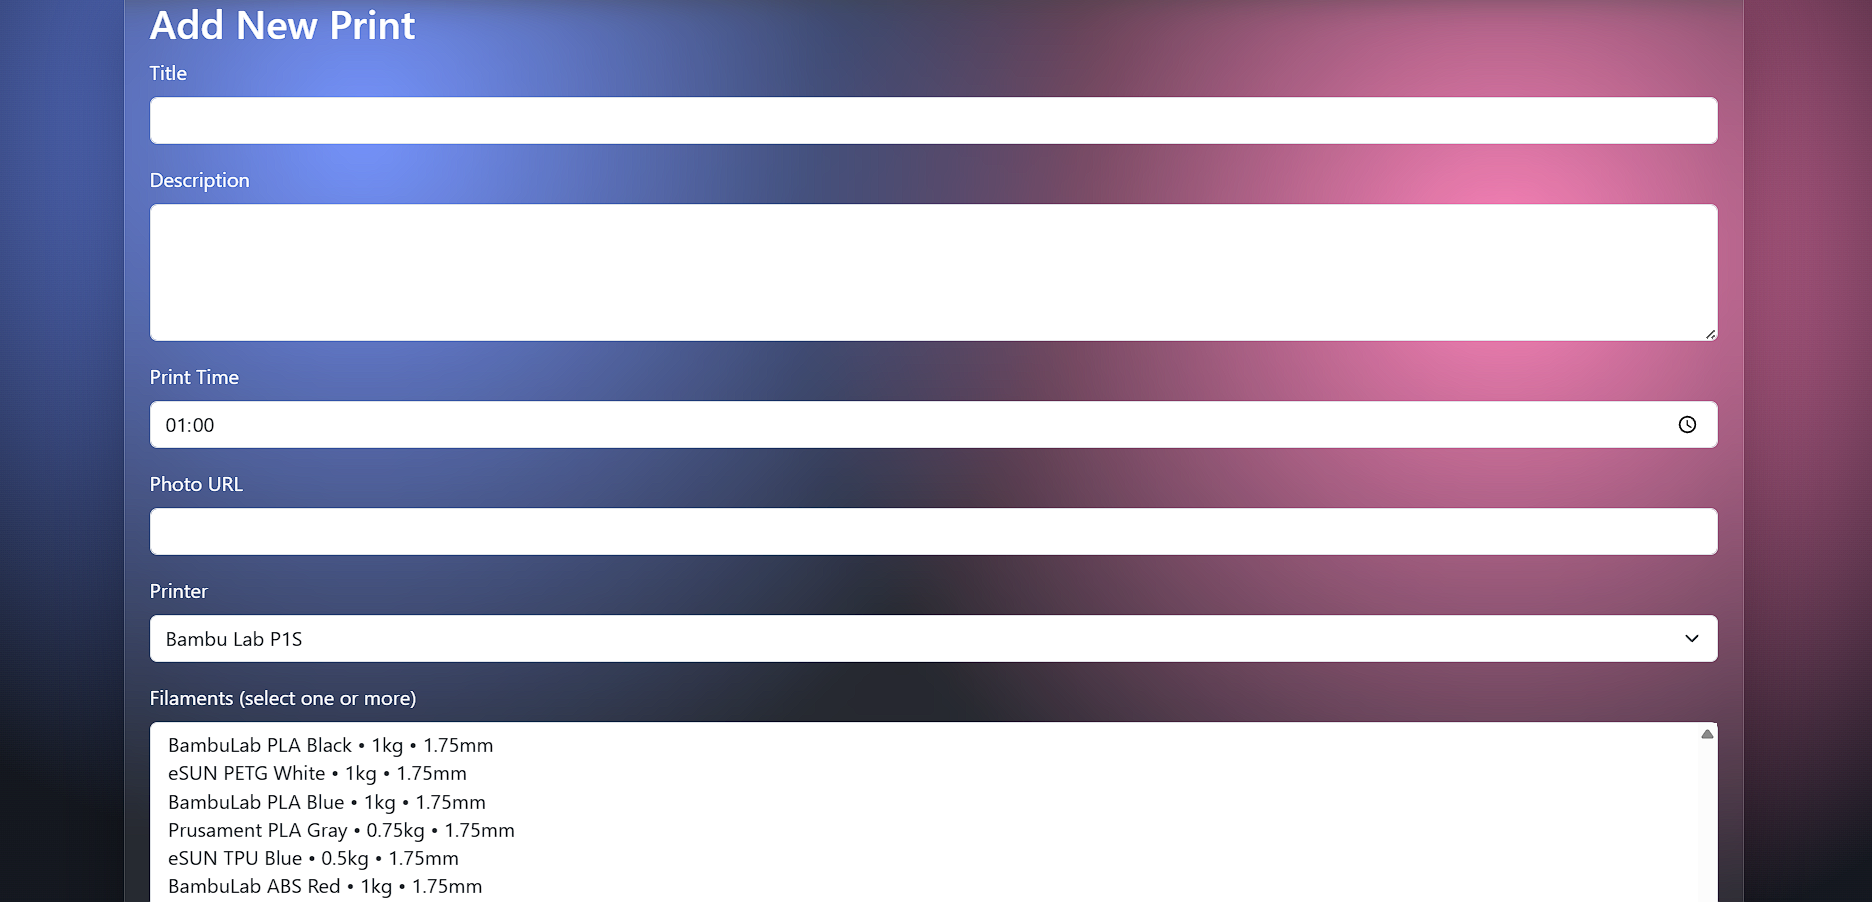
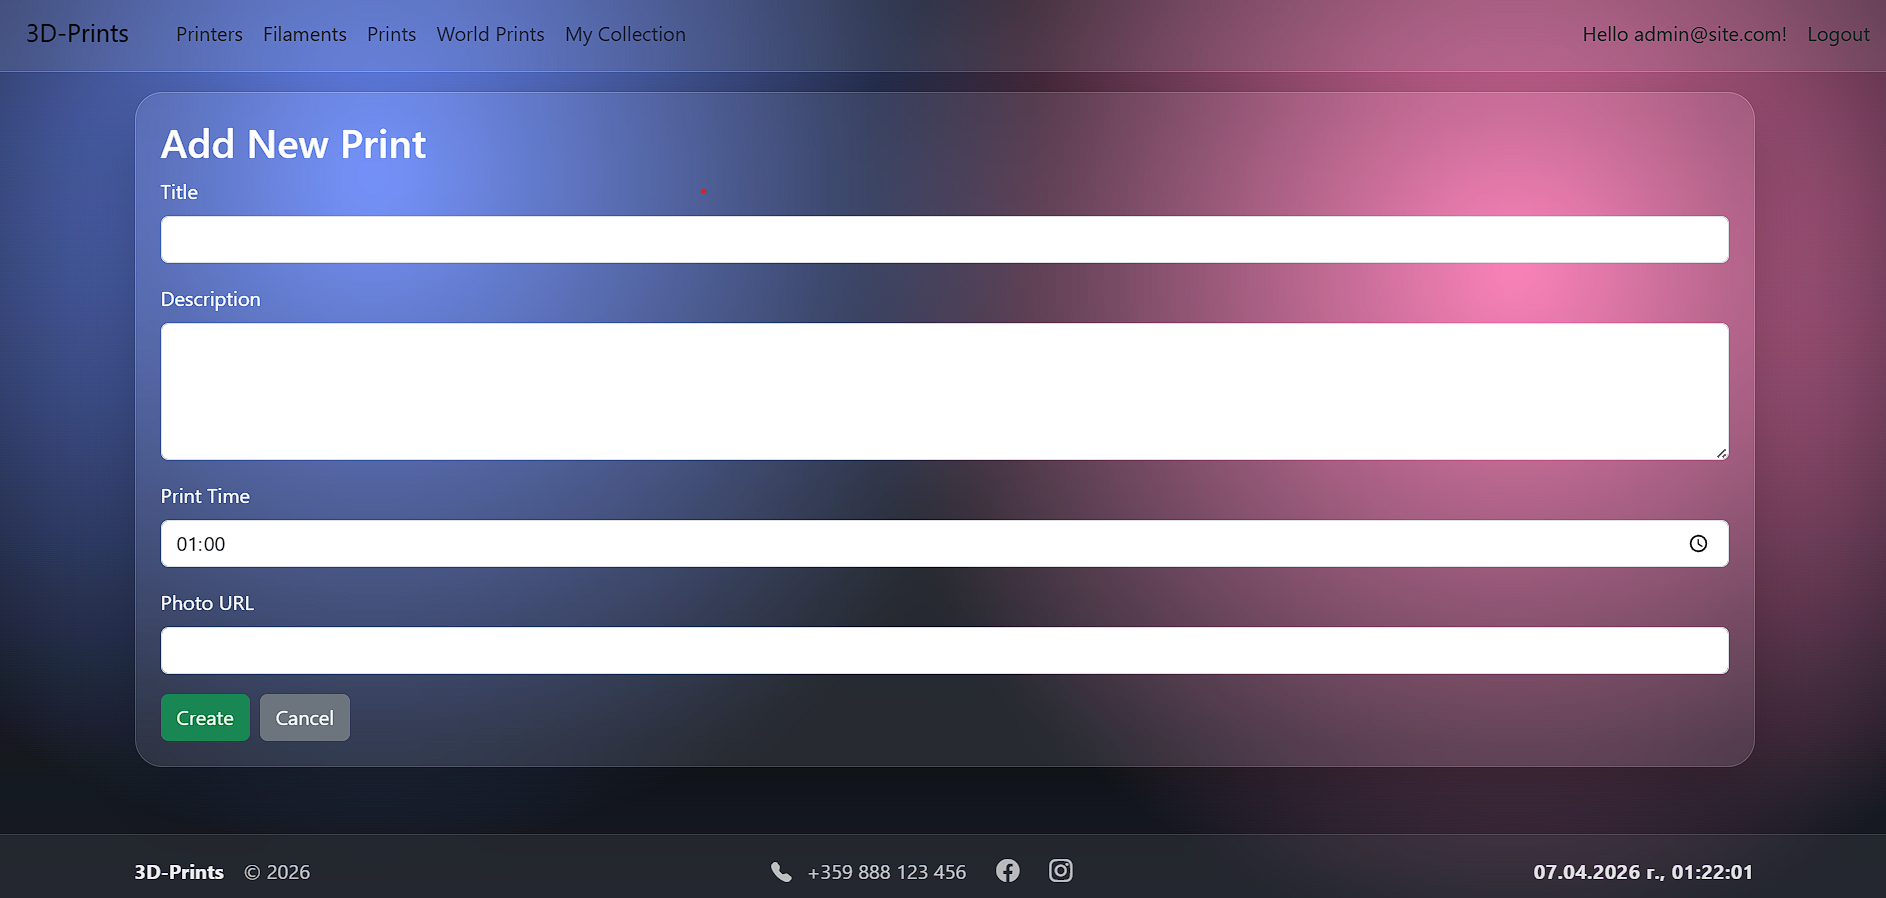
Print seed data and new read me screenshots

diff --git a/3D-Prints-APP.Data/Migrations/20260406225906_SeedPrints.cs b/3D-Prints-APP.Data/Migrations/20260406225906_SeedPrints.cs
@@ -1,0 +1,69 @@
+using System;
+using Microsoft.EntityFrameworkCore.Migrations;
+
+#nullable disable
+
+#pragma warning disable CA1814 // Prefer jagged arrays over multidimensional
+
+namespace _3DPrintsASP.NETCoreMVCAPP.Migrations
+{
+    /// <inheritdoc />
+    public partial class SeedPrints : Migration
+    {
+        /// <inheritdoc />
+        protected override void Up(MigrationBuilder migrationBuilder)
+        {
+            migrationBuilder.InsertData(
+                table: "Prints",
+                columns: new[] { "Id", "Description", "IsPublic", "PrintTime", "PrinterId", "Title", "UploadPhoto", "UploadedTime", "UserId" },
+                values: new object[,]
+                {
+                    { 1, "One of the minions", true, new TimeOnly(2, 30, 0), null, "Minion Bob", "https://m.media-amazon.com/images/I/61R3gavoPGL._AC_UF894,1000_QL80_.jpg", new DateTime(2025, 10, 10, 14, 30, 0, 0, DateTimeKind.Unspecified), "admin-user-id" },
+                    { 2, "Popeye the sailor man", true, new TimeOnly(1, 45, 0), null, "Popeye", "https://i.ebayimg.com/images/g/ItYAAOSwM4Rmv4Sm/s-l400.jpg", new DateTime(2025, 10, 12, 16, 0, 0, 0, DateTimeKind.Unspecified), "admin-user-id" }
+                });
+
+            migrationBuilder.InsertData(
+                table: "Prints",
+                columns: new[] { "Id", "Description", "PrintTime", "PrinterId", "Title", "UploadPhoto", "UploadedTime", "UserId" },
+                values: new object[,]
+                {
+                    { 3, "Holder that keeps cables organized", new TimeOnly(3, 0, 0), null, "Cable Holder", "https://www.3dforprint.com/modelos/10243/cable-holder1.webp", new DateTime(2025, 10, 15, 11, 20, 0, 0, DateTimeKind.Unspecified), "admin-user-id" },
+                    { 4, "Organizers designed to securely hold tools like calipers, flush cutters, Allen keys, and scraper tools, keeping workbenches tidy", new TimeOnly(4, 15, 0), null, "Tool tray stand", "https://i.etsystatic.com/52313838/r/il/122c4d/6435355435/il_570xN.6435355435_cecf.jpg", new DateTime(2025, 10, 18, 18, 10, 0, 0, DateTimeKind.Unspecified), "admin-user-id" }
+                });
+
+            migrationBuilder.InsertData(
+                table: "Prints",
+                columns: new[] { "Id", "Description", "IsPublic", "PrintTime", "PrinterId", "Title", "UploadPhoto", "UploadedTime", "UserId" },
+                values: new object[] { 6, "Famous 3D printer test model", true, new TimeOnly(1, 30, 0), null, "3DBenchy", "https://media.printables.com/media/prints/3161/images/20206_70fde6a0-6da1-4522-ba46-25f1bece7199/thumbs/cover/1200x630/jpg/benchy.jpg", new DateTime(2025, 10, 22, 9, 15, 0, 0, DateTimeKind.Unspecified), "admin-user-id" });
+        }
+
+        /// <inheritdoc />
+        protected override void Down(MigrationBuilder migrationBuilder)
+        {
+            migrationBuilder.DeleteData(
+                table: "Prints",
+                keyColumn: "Id",
+                keyValue: 1);
+
+            migrationBuilder.DeleteData(
+                table: "Prints",
+                keyColumn: "Id",
+                keyValue: 2);
+
+            migrationBuilder.DeleteData(
+                table: "Prints",
+                keyColumn: "Id",
+                keyValue: 3);
+
+            migrationBuilder.DeleteData(
+                table: "Prints",
+                keyColumn: "Id",
+                keyValue: 4);
+
+            migrationBuilder.DeleteData(
+                table: "Prints",
+                keyColumn: "Id",
+                keyValue: 6);
+        }
+    }
+}

diff --git a/3D-Prints-APP.Data/Configurations/PrintConfiguration.cs b/3D-Prints-APP.Data/Configurations/PrintConfiguration.cs
@@ -1,8 +1,6 @@
 using _3DPrintsAPP.Data.Models;
-using _3DPrintsAPP.Enums;
 using Microsoft.EntityFrameworkCore;
 using Microsoft.EntityFrameworkCore.Metadata.Builders;
-using System.Reflection.Emit;
 
 namespace _3DPrintsAPP.Data.Configurations
 {
@@ -21,7 +19,69 @@ namespace _3DPrintsAPP.Data.Configurations
                 .HasForeignKey(p => p.UserId)
                 .OnDelete(DeleteBehavior.Restrict);
 
+            builder.HasData(GetSeedPrints());
+        }
 
+        private List<Print> GetSeedPrints()
+        {
+            return new List<Print>
+            {
+                new Print
+                {
+                    Id = 1,
+                    Title = "Minion Bob",
+                    Description = "One of the minions",
+                    PrintTime = new TimeOnly(2, 30),
+                    UploadPhoto = "https://m.media-amazon.com/images/I/61R3gavoPGL._AC_UF894,1000_QL80_.jpg",
+                    UploadedTime = new DateTime(2025, 10, 10, 14, 30, 0),
+                    IsPublic = true,
+                    UserId = "admin-user-id"
+                },
+                new Print
+                {
+                    Id = 2,
+                    Title = "Popeye",
+                    Description = "Popeye the sailor man",
+                    PrintTime = new TimeOnly(1, 45),
+                    UploadPhoto = "https://i.ebayimg.com/images/g/ItYAAOSwM4Rmv4Sm/s-l400.jpg",
+                    UploadedTime = new DateTime(2025, 10, 12, 16, 0, 0),
+                    IsPublic = true,
+                    UserId = "admin-user-id"
+                },
+                new Print
+                {
+                    Id = 3,
+                    Title = "Cable Holder",
+                    Description = "Holder that keeps cables organized",
+                    PrintTime = new TimeOnly(3, 0),
+                    UploadPhoto = "https://www.3dforprint.com/modelos/10243/cable-holder1.webp",
+                    UploadedTime = new DateTime(2025, 10, 15, 11, 20, 0),
+                    IsPublic = false,
+                    UserId = "admin-user-id"
+                },
+                new Print
+                {
+                    Id = 4,
+                    Title = "Tool tray stand",
+                    Description = "Organizers designed to securely hold tools like calipers, flush cutters, Allen keys, and scraper tools, keeping workbenches tidy",
+                    PrintTime = new TimeOnly(4, 15),
+                    UploadPhoto = "https://i.etsystatic.com/52313838/r/il/122c4d/6435355435/il_570xN.6435355435_cecf.jpg",
+                    UploadedTime = new DateTime(2025, 10, 18, 18, 10, 0),
+                    IsPublic = false,
+                    UserId = "admin-user-id"
+                },
+                new Print
+                {
+                    Id = 6,
+                    Title = "3DBenchy",
+                    Description = "Famous 3D printer test model",
+                    PrintTime = new TimeOnly(1, 30),
+                    UploadPhoto = "https://media.printables.com/media/prints/3161/images/20206_70fde6a0-6da1-4522-ba46-25f1bece7199/thumbs/cover/1200x630/jpg/benchy.jpg",
+                    UploadedTime = new DateTime(2025, 10, 22, 9, 15, 0),
+                    IsPublic = true,
+                    UserId = "admin-user-id"
+                }
+            };
         }
     }
 }

diff --git a/3D-Prints-APP.Data/Migrations/20260406225906_SeedPrints.Designer.cs b/3D-Prints-APP.Data/Migrations/20260406225906_SeedPrints.Designer.cs
@@ -3,6 +3,7 @@ using System;
 using Microsoft.EntityFrameworkCore;
 using Microsoft.EntityFrameworkCore.Infrastructure;
 using Microsoft.EntityFrameworkCore.Metadata;
+using Microsoft.EntityFrameworkCore.Migrations;
 using Microsoft.EntityFrameworkCore.Storage.ValueConversion;
 using _3DPrintsAPP.Data;
 
@@ -11,9 +12,11 @@ using _3DPrintsAPP.Data;
 namespace _3DPrintsASP.NETCoreMVCAPP.Migrations
 {
     [DbContext(typeof(ApplicationDbContext))]
-    partial class ApplicationDbContextModelSnapshot : ModelSnapshot
+    [Migration("20260406225906_SeedPrints")]
+    partial class SeedPrints
     {
-        protected override void BuildModel(ModelBuilder modelBuilder)
+        /// <inheritdoc />
+        protected override void BuildTargetModel(ModelBuilder modelBuilder)
         {
 #pragma warning disable 612, 618
             modelBuilder

diff --git a/README.md b/README.md
@@ -69,8 +69,6 @@ To access most features:
 ~~~~
 * Introduction section
 * Navigation buttons
-* List of prints (after login)
-* Search functionality
 ~~~~
 If the user is not logged in, buttons for registration and login are shown.
 
@@ -148,19 +146,27 @@ https://localhost:xxxx/
 
 ![register](https://github.com/Winchestur/3D-Prints-ASP.NET-Core-MVC-APP/blob/main/3D-Prints-ASP.NET-Core-MVC-APP/wwwroot/images/register.png)
 
-![HomePage1](https://github.com/Winchestur/3D-Prints-ASP.NET-Core-MVC-APP/blob/main/3D-Prints-ASP.NET-Core-MVC-APP/wwwroot/images/HomePage1.png)
+![HomePage](https://github.com/Winchestur/3D-Prints-ASP.NET-Core-MVC-APP/blob/main/3D-Prints-ASP.NET-Core-MVC-APP/wwwroot/images/HomePage.png)
 
-![HomePage2](https://github.com/Winchestur/3D-Prints-ASP.NET-Core-MVC-APP/blob/main/3D-Prints-ASP.NET-Core-MVC-APP/wwwroot/images/HomePage2.png)
+![MyPrinters](https://github.com/Winchestur/3D-Prints-ASP.NET-Core-MVC-APP/blob/main/3D-Prints-ASP.NET-Core-MVC-APP/wwwroot/images/MyPrinters.png)
 
-![PrinterIndex](https://github.com/Winchestur/3D-Prints-ASP.NET-Core-MVC-APP/blob/main/3D-Prints-ASP.NET-Core-MVC-APP/wwwroot/images/PrinterIndex.png)
+![CreatePrinter](https://github.com/Winchestur/3D-Prints-ASP.NET-Core-MVC-APP/blob/main/3D-Prints-ASP.NET-Core-MVC-APP/wwwroot/images/CreatePrinter.png)
 
-![AddNewPrinter](https://github.com/Winchestur/3D-Prints-ASP.NET-Core-MVC-APP/blob/main/3D-Prints-ASP.NET-Core-MVC-APP/wwwroot/images/AddNewPrinter.png)
+![CreatePrinterOption](https://github.com/Winchestur/3D-Prints-ASP.NET-Core-MVC-APP/blob/main/3D-Prints-ASP.NET-Core-MVC-APP/wwwroot/images/CreatePrinterOption.png)
 
-![FilamentDetails](https://github.com/Winchestur/3D-Prints-ASP.NET-Core-MVC-APP/blob/main/3D-Prints-ASP.NET-Core-MVC-APP/wwwroot/images/FilamentDetails.png)
+![PrinterOption](https://github.com/Winchestur/3D-Prints-ASP.NET-Core-MVC-APP/blob/main/3D-Prints-ASP.NET-Core-MVC-APP/wwwroot/images/PrinterOption.png)
 
-![FilamentDelete](https://github.com/Winchestur/3D-Prints-ASP.NET-Core-MVC-APP/blob/main/3D-Prints-ASP.NET-Core-MVC-APP/wwwroot/images/FilamentDelete.png)
+![EditFilamentOption](https://github.com/Winchestur/3D-Prints-ASP.NET-Core-MVC-APP/blob/main/3D-Prints-ASP.NET-Core-MVC-APP/wwwroot/images/EditFilamentOption.png)
 
-![DBContext](https://github.com/Winchestur/3D-Prints-ASP.NET-Core-MVC-APP/blob/main/3D-Prints-ASP.NET-Core-MVC-APP/wwwroot/images/DBContext.png)
+![CreateFilamentOption](https://github.com/Winchestur/3D-Prints-ASP.NET-Core-MVC-APP/blob/main/3D-Prints-ASP.NET-Core-MVC-APP/wwwroot/images/CreateFilamentOption.png)
+
+![MyPrints](https://github.com/Winchestur/3D-Prints-ASP.NET-Core-MVC-APP/blob/main/3D-Prints-ASP.NET-Core-MVC-APP/wwwroot/images/MyPrints.png)
+
+![WorldPrints](https://github.com/Winchestur/3D-Prints-ASP.NET-Core-MVC-APP/blob/main/3D-Prints-ASP.NET-Core-MVC-APP/wwwroot/images/WorldPrints.png)
+
+![MyCollection](https://github.com/Winchestur/3D-Prints-ASP.NET-Core-MVC-APP/blob/main/3D-Prints-ASP.NET-Core-MVC-APP/wwwroot/images/MyCollection.png)
+
+![AdminPages](https://github.com/Winchestur/3D-Prints-ASP.NET-Core-MVC-APP/blob/main/3D-Prints-ASP.NET-Core-MVC-APP/wwwroot/images/AdminPages.png)
 
 ---
 
